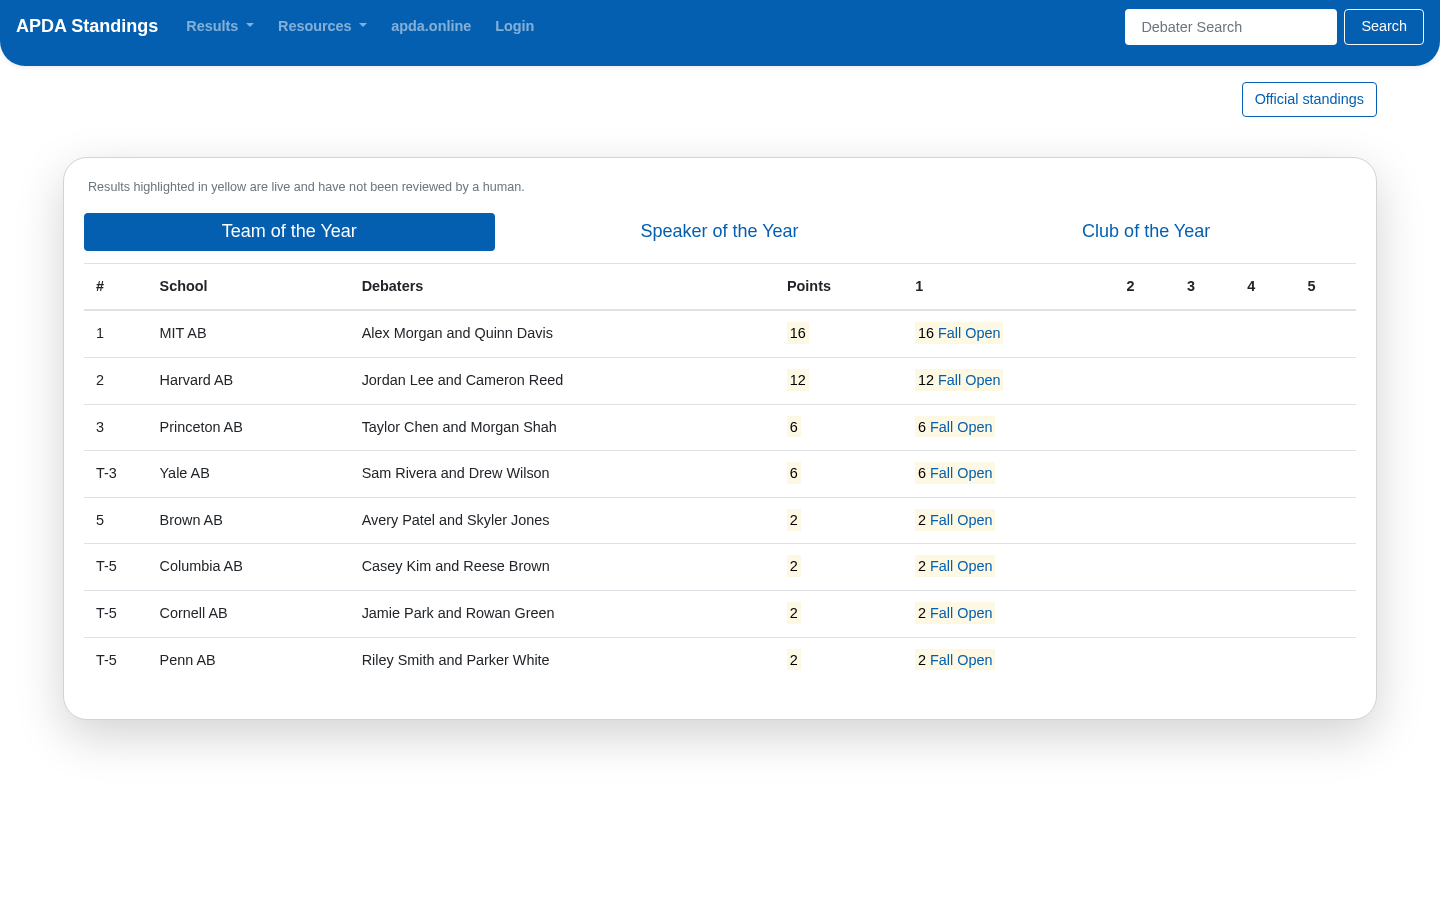
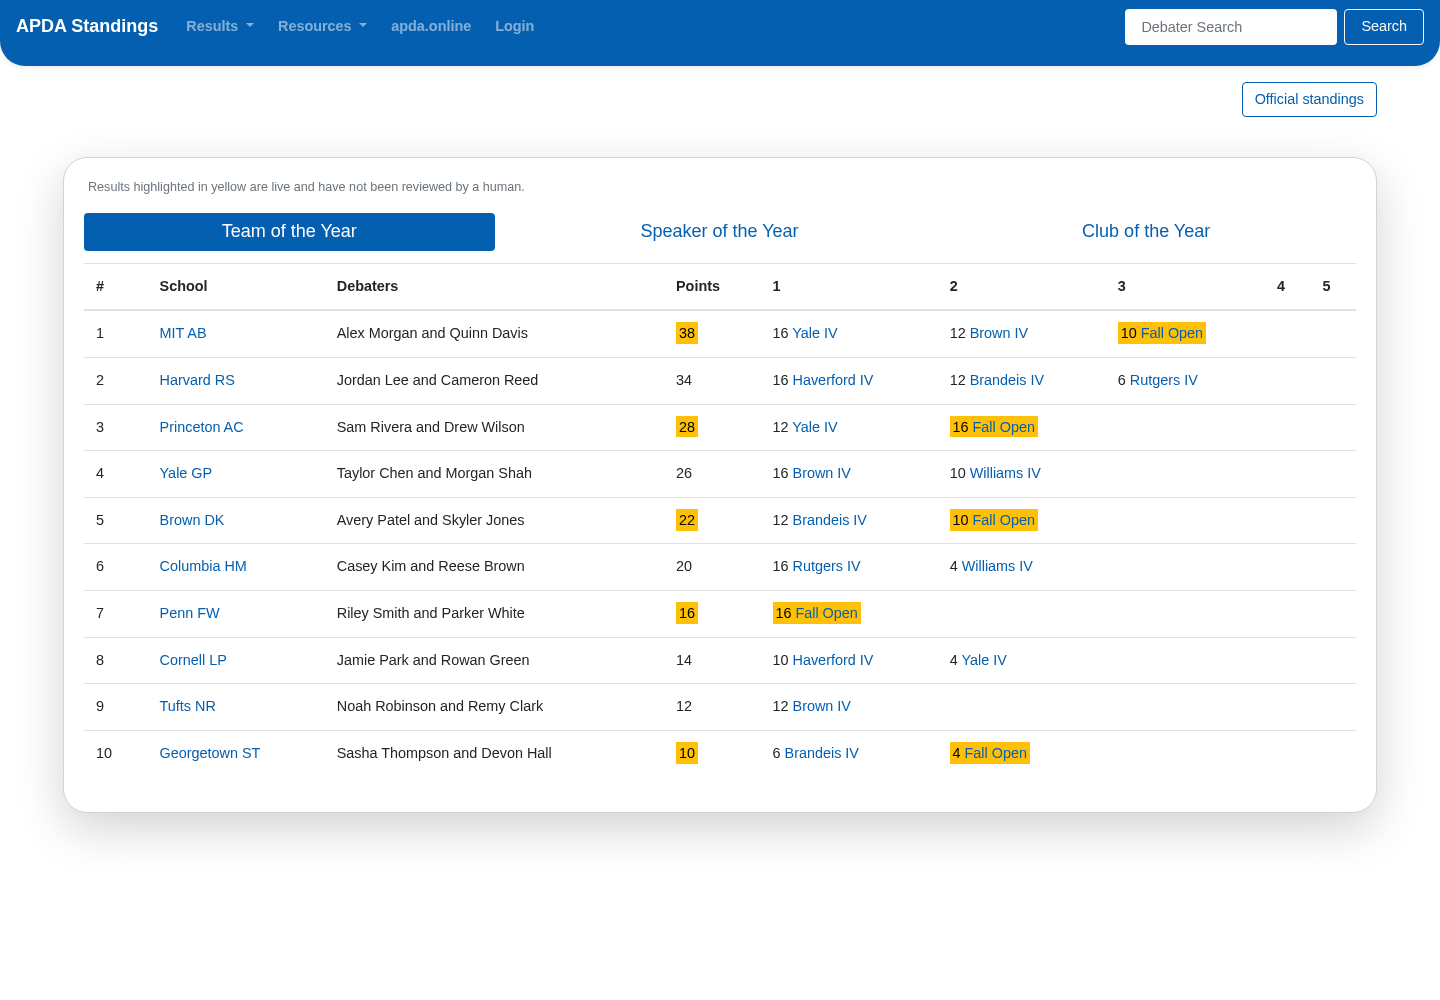
Strengthen live result highlights

diff --git a/core/templates/core/live.html b/core/templates/core/live.html
@@ -55,11 +55,11 @@
                                         <td>{% if row.tied %}T-{% endif %}{{ row.place }}</td>
                                         <td>{% if row.url %}<a href="{{ row.url }}">{{ row.name }}</a>{% else %}{{ row.name }}{% endif %}</td>
                                         <td>{{ row.detail }}</td>
-                                        <td>{% if row.has_live %}<mark>{{ row.points|number }}</mark>{% else %}{{ row.points|number }}{% endif %}</td>
+                                        <td>{% if row.has_live %}<mark class="bg-warning">{{ row.points|number }}</mark>{% else %}{{ row.points|number }}{% endif %}</td>
                                         {% for marker in row.marker_slots %}
                                             <td>
                                                 {% if marker %}
-                                                    {% if marker.live %}<mark>{% endif %}
+                                                    {% if marker.live %}<mark class="bg-warning">{% endif %}
                                                     {{ marker.points|number }} <a href="{{ marker.url }}"{% if marker.live %} target="_blank" rel="noopener"{% endif %}>{{ marker.tournament }}</a>
                                                     {% if marker.live %}</mark>{% endif %}
                                                 {% endif %}
@@ -97,11 +97,11 @@
                                         <td>{% if row.tied %}T-{% endif %}{{ row.place }}</td>
                                         <td>{% if row.url %}<a href="{{ row.url }}">{{ row.name }}</a>{% else %}{{ row.name }}{% endif %}</td>
                                         <td>{{ row.detail }}</td>
-                                        <td>{% if row.has_live %}<mark>{{ row.points|number }}</mark>{% else %}{{ row.points|number }}{% endif %}</td>
+                                        <td>{% if row.has_live %}<mark class="bg-warning">{{ row.points|number }}</mark>{% else %}{{ row.points|number }}{% endif %}</td>
                                         {% for marker in row.marker_slots %}
                                             <td>
                                                 {% if marker %}
-                                                    {% if marker.live %}<mark>{% endif %}
+                                                    {% if marker.live %}<mark class="bg-warning">{% endif %}
                                                     {{ marker.points|number }} <a href="{{ marker.url }}"{% if marker.live %} target="_blank" rel="noopener"{% endif %}>{{ marker.tournament }}</a>
                                                     {% if marker.live %}</mark>{% endif %}
                                                 {% endif %}
@@ -134,11 +134,11 @@
                                     <tr>
                                         <td>{% if row.tied %}T-{% endif %}{{ row.place }}</td>
                                         <td>{% if row.url %}<a href="{{ row.url }}">{{ row.name }}</a>{% else %}{{ row.name }}{% endif %}</td>
-                                        <td>{% if row.has_live %}<mark>{{ row.points|number }}</mark>{% else %}{{ row.points|number }}{% endif %}</td>
+                                        <td>{% if row.has_live %}<mark class="bg-warning">{{ row.points|number }}</mark>{% else %}{{ row.points|number }}{% endif %}</td>
                                         <td colspan="3">
                                             {% for marker in row.markers %}
                                                 {% if marker.live %}
-                                                    <mark>{{ marker.points|number }} <a href="{{ marker.url }}" target="_blank" rel="noopener">{{ marker.tournament }}</a></mark>{% if not forloop.last %}, {% endif %}
+                                                    <mark class="bg-warning">{{ marker.points|number }} <a href="{{ marker.url }}" target="_blank" rel="noopener">{{ marker.tournament }}</a></mark>{% if not forloop.last %}, {% endif %}
                                                 {% endif %}
                                             {% endfor %}
                                         </td>
@@ -174,11 +174,11 @@
                                             <td>{% if row.tied %}T-{% endif %}{{ row.place }}</td>
                                             <td>{% if row.url %}<a href="{{ row.url }}">{{ row.name }}</a>{% else %}{{ row.name }}{% endif %}</td>
                                             <td>{{ row.detail }}</td>
-                                            <td>{% if row.has_live %}<mark>{{ row.points|number }}</mark>{% else %}{{ row.points|number }}{% endif %}</td>
+                                            <td>{% if row.has_live %}<mark class="bg-warning">{{ row.points|number }}</mark>{% else %}{{ row.points|number }}{% endif %}</td>
                                             {% for marker in row.marker_slots %}
                                                 <td>
                                                     {% if marker %}
-                                                        {% if marker.live %}<mark>{% endif %}
+                                                        {% if marker.live %}<mark class="bg-warning">{% endif %}
                                                         {{ marker.points|number }} <a href="{{ marker.url }}"{% if marker.live %} target="_blank" rel="noopener"{% endif %}>{{ marker.tournament }}</a>
                                                         {% if marker.live %}</mark>{% endif %}
                                                     {% endif %}

diff --git a/tests/unit/test_live_results.py b/tests/unit/test_live_results.py
@@ -79,6 +79,7 @@ def test_live_page_labels_provisional_results():
     assert b"MIT Fall" in response.content
     assert b"<th scope=\"col\">School</th>" in response.content
     assert b"<th scope=\"col\">Debaters</th>" in response.content
+    assert b"<mark class=\"bg-warning\">" in response.content
     assert b"Results counting toward total" not in response.content
 
 
